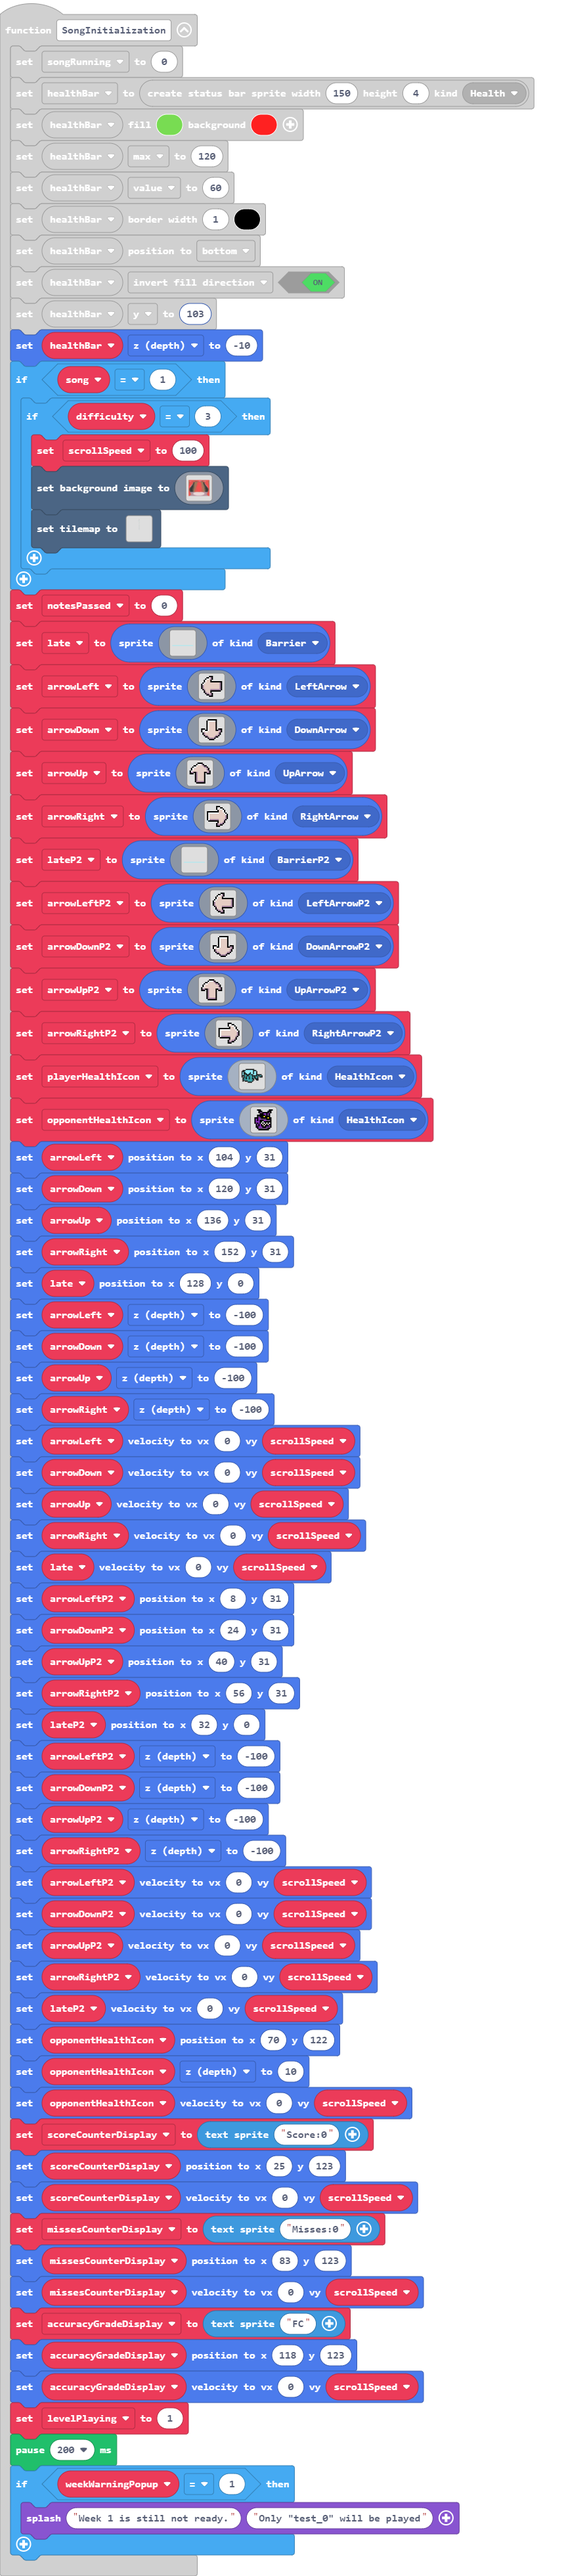
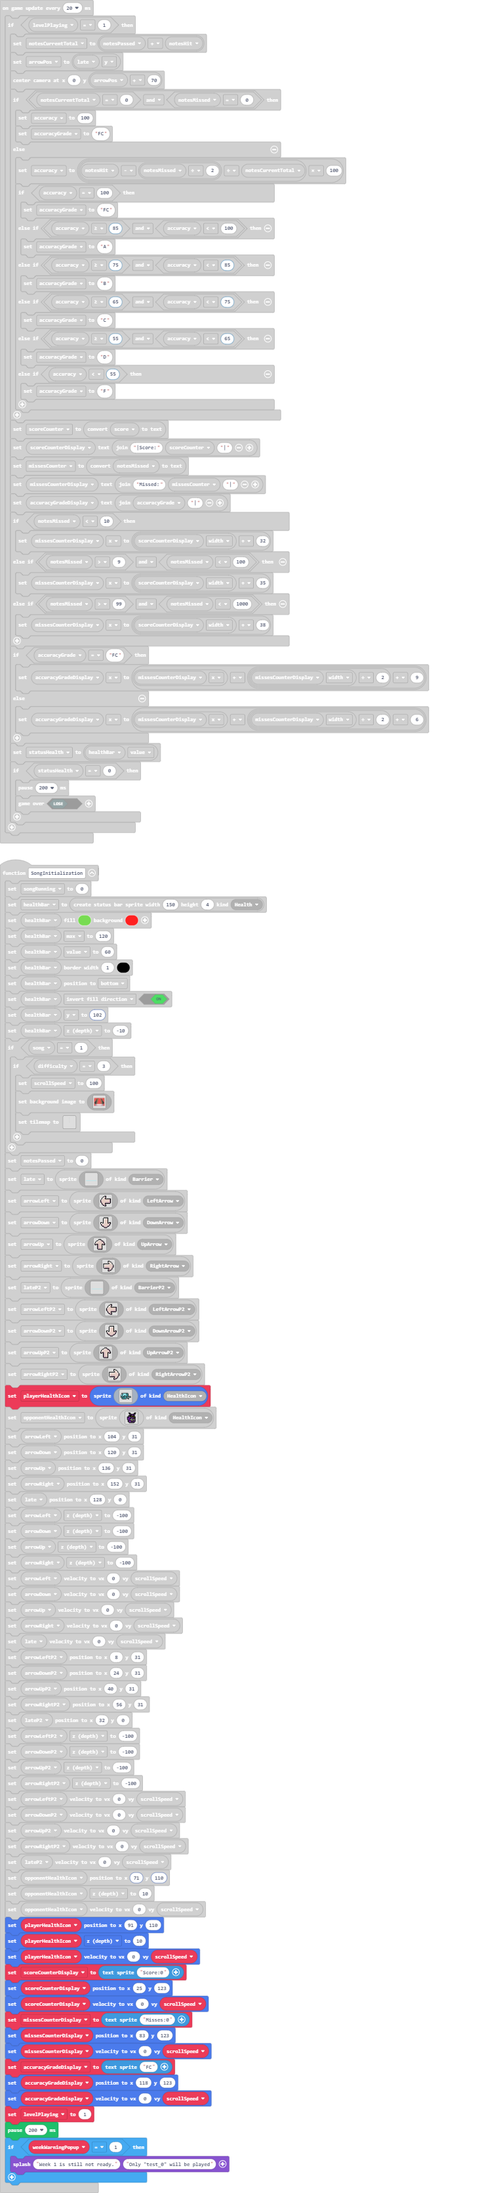
Update pxt.json, main.blocks, main.ts

diff --git a/main.ts b/main.ts
@@ -160,7 +160,7 @@ function SongInitialization () {
     healthBar.setBarBorder(1, 15)
     healthBar.positionDirection(CollisionDirection.Bottom)
     healthBar.setStatusBarFlag(StatusBarFlag.InvertFillDirection, true)
-    healthBar.y = 103
+    healthBar.y = 102
     healthBar.z = -10
     if (song == 1) {
         if (difficulty == 3) {
@@ -473,19 +473,19 @@ function SongInitialization () {
         `, SpriteKind.RightArrowP2)
     playerHealthIcon = sprites.create(img`
         ....................
-        ....ffffffff........
-        .fff9999999fff......
-        fff99999999f99f.....
-        f9ff9999f99f99f.....
-        f9fff99ff99f99f.....
-        f9f6ffff6ff999fffff.
-        fff66ff666fffff6f66f
-        f.f6f66f66f6f66f.fff
-        .ff6f66f66f6ff6f....
-        .f66f66f66ff.fff....
-        .ff66666666f..ff....
-        .f.fff6666f.........
-        ......ffff..........
+        ....................
+        ..ffffffffffff......
+        ..f19999999f66f.....
+        ..fff999999f66f.....
+        .f99f999999f66f.....
+        f99f9999f99f66f.....
+        f99f999ff99f66f.....
+        f9f6ffff6ff666fffff.
+        fff66ff666fffff1f66f
+        f.f6f66f66f9f99f.fff
+        ..f6f66f66f9ff9f....
+        ..f66666666f.fff....
+        ...ffffffff...ff....
         ....................
         ....................
         `, SpriteKind.HealthIcon)
@@ -535,9 +535,12 @@ function SongInitialization () {
     arrowUpP2.setVelocity(0, scrollSpeed)
     arrowRightP2.setVelocity(0, scrollSpeed)
     lateP2.setVelocity(0, scrollSpeed)
-    opponentHealthIcon.setPosition(70, 122)
+    opponentHealthIcon.setPosition(71, 110)
     opponentHealthIcon.z = 10
     opponentHealthIcon.setVelocity(0, scrollSpeed)
+    playerHealthIcon.setPosition(91, 110)
+    playerHealthIcon.z = 10
+    playerHealthIcon.setVelocity(0, scrollSpeed)
     scoreCounterDisplay = textsprite.create("Score:0")
     scoreCounterDisplay.setPosition(25, 123)
     scoreCounterDisplay.setVelocity(0, scrollSpeed)
@@ -871,15 +874,15 @@ game.onUpdateInterval(20, function () {
             accuracy = (notesHit - notesMissed / 2) / notesCurrentTotal * 100
             if (accuracy == 100) {
                 accuracyGrade = "FC"
-            } else if (accuracy >= 90 && accuracy < 100) {
+            } else if (accuracy >= 85 && accuracy < 100) {
                 accuracyGrade = "A"
-            } else if (accuracy >= 80 && accuracy < 90) {
+            } else if (accuracy >= 75 && accuracy < 85) {
                 accuracyGrade = "B"
-            } else if (accuracy >= 70 && accuracy < 80) {
+            } else if (accuracy >= 65 && accuracy < 75) {
                 accuracyGrade = "C"
-            } else if (accuracy >= 60 && accuracy < 70) {
+            } else if (accuracy >= 55 && accuracy < 65) {
                 accuracyGrade = "D"
-            } else if (accuracy < 60) {
+            } else if (accuracy < 55) {
                 accuracyGrade = "F"
             }
         }
